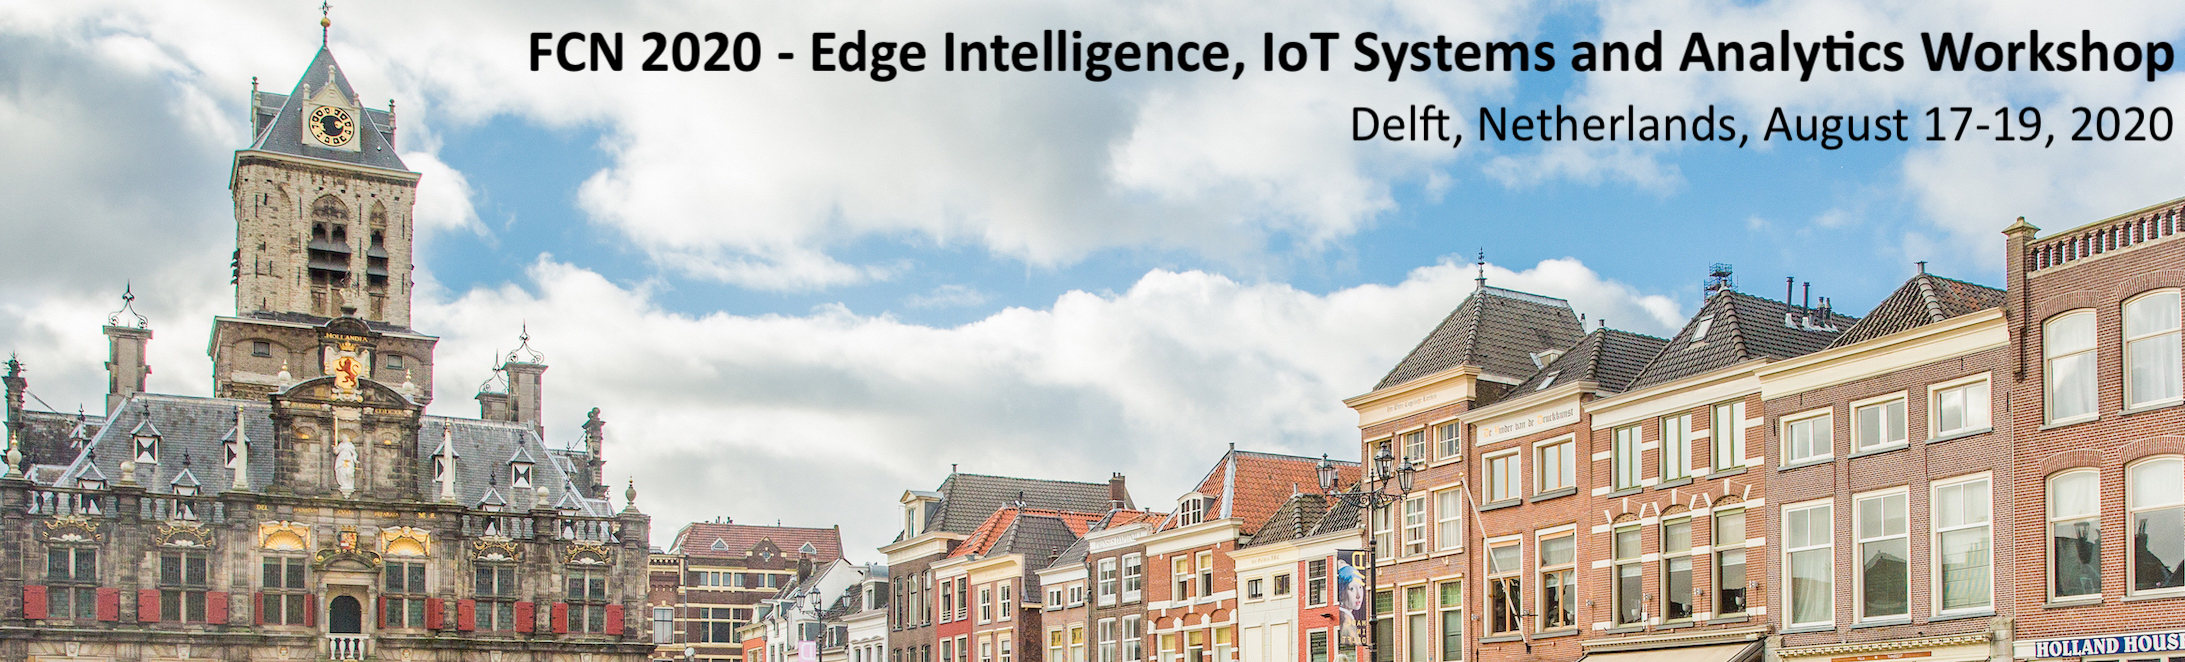
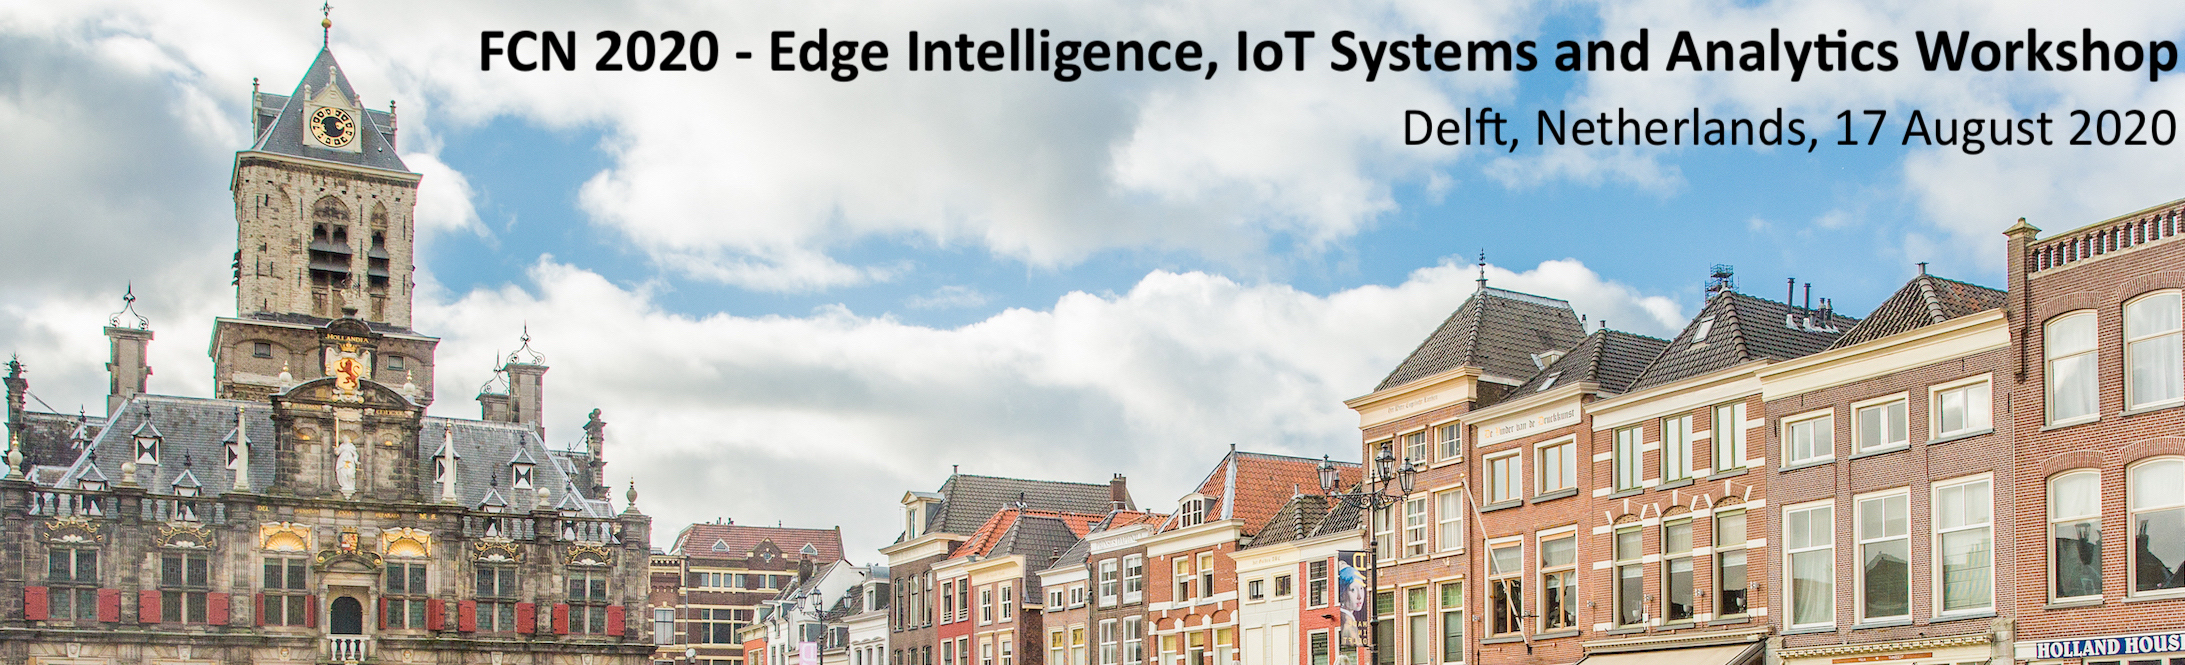
fix date fig

diff --git a/fcn/2020/index.html b/fcn/2020/index.html
@@ -106,7 +106,7 @@ The 7th Finland-China-Netherlands (FCN 2020) workshop on Edge Intelligence, IoT 
 
         <h3>Workshop Date</h3>
         <ul>
-          <li>Workshop: August 17-19, 2020</li>
+          <li>Workshop: August 17, 2020</li>
         </ul>
         <br>
 
